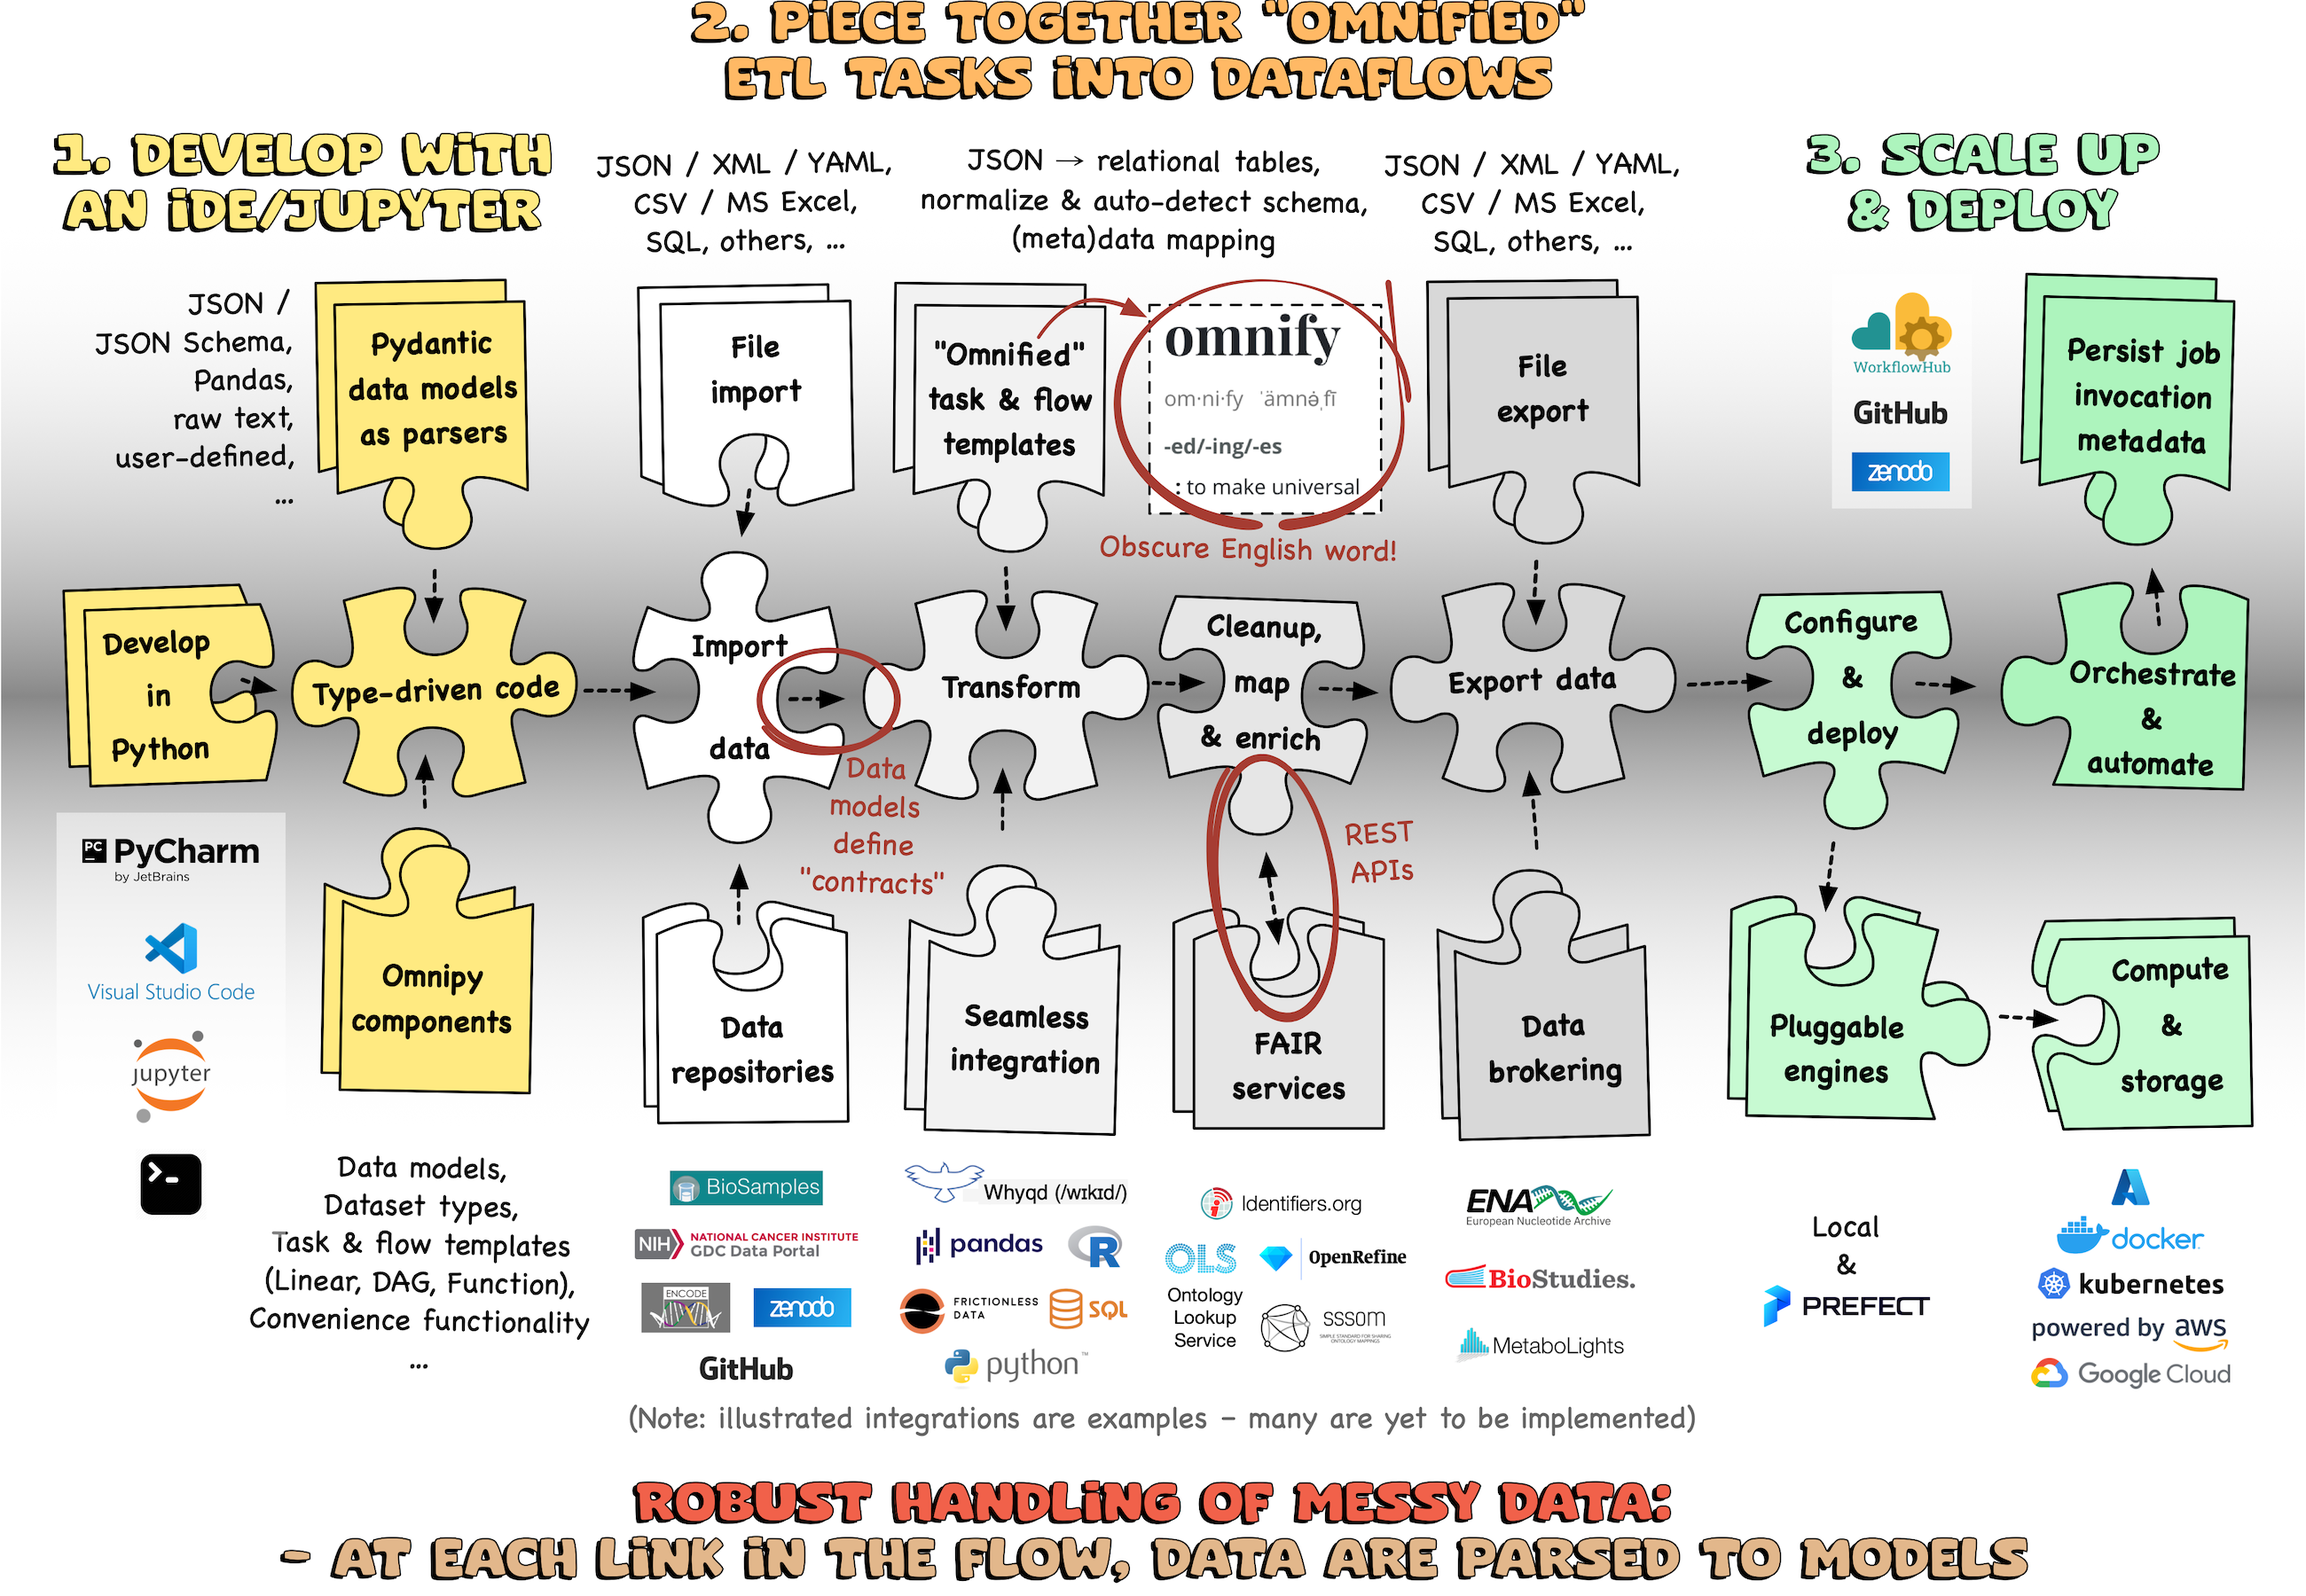
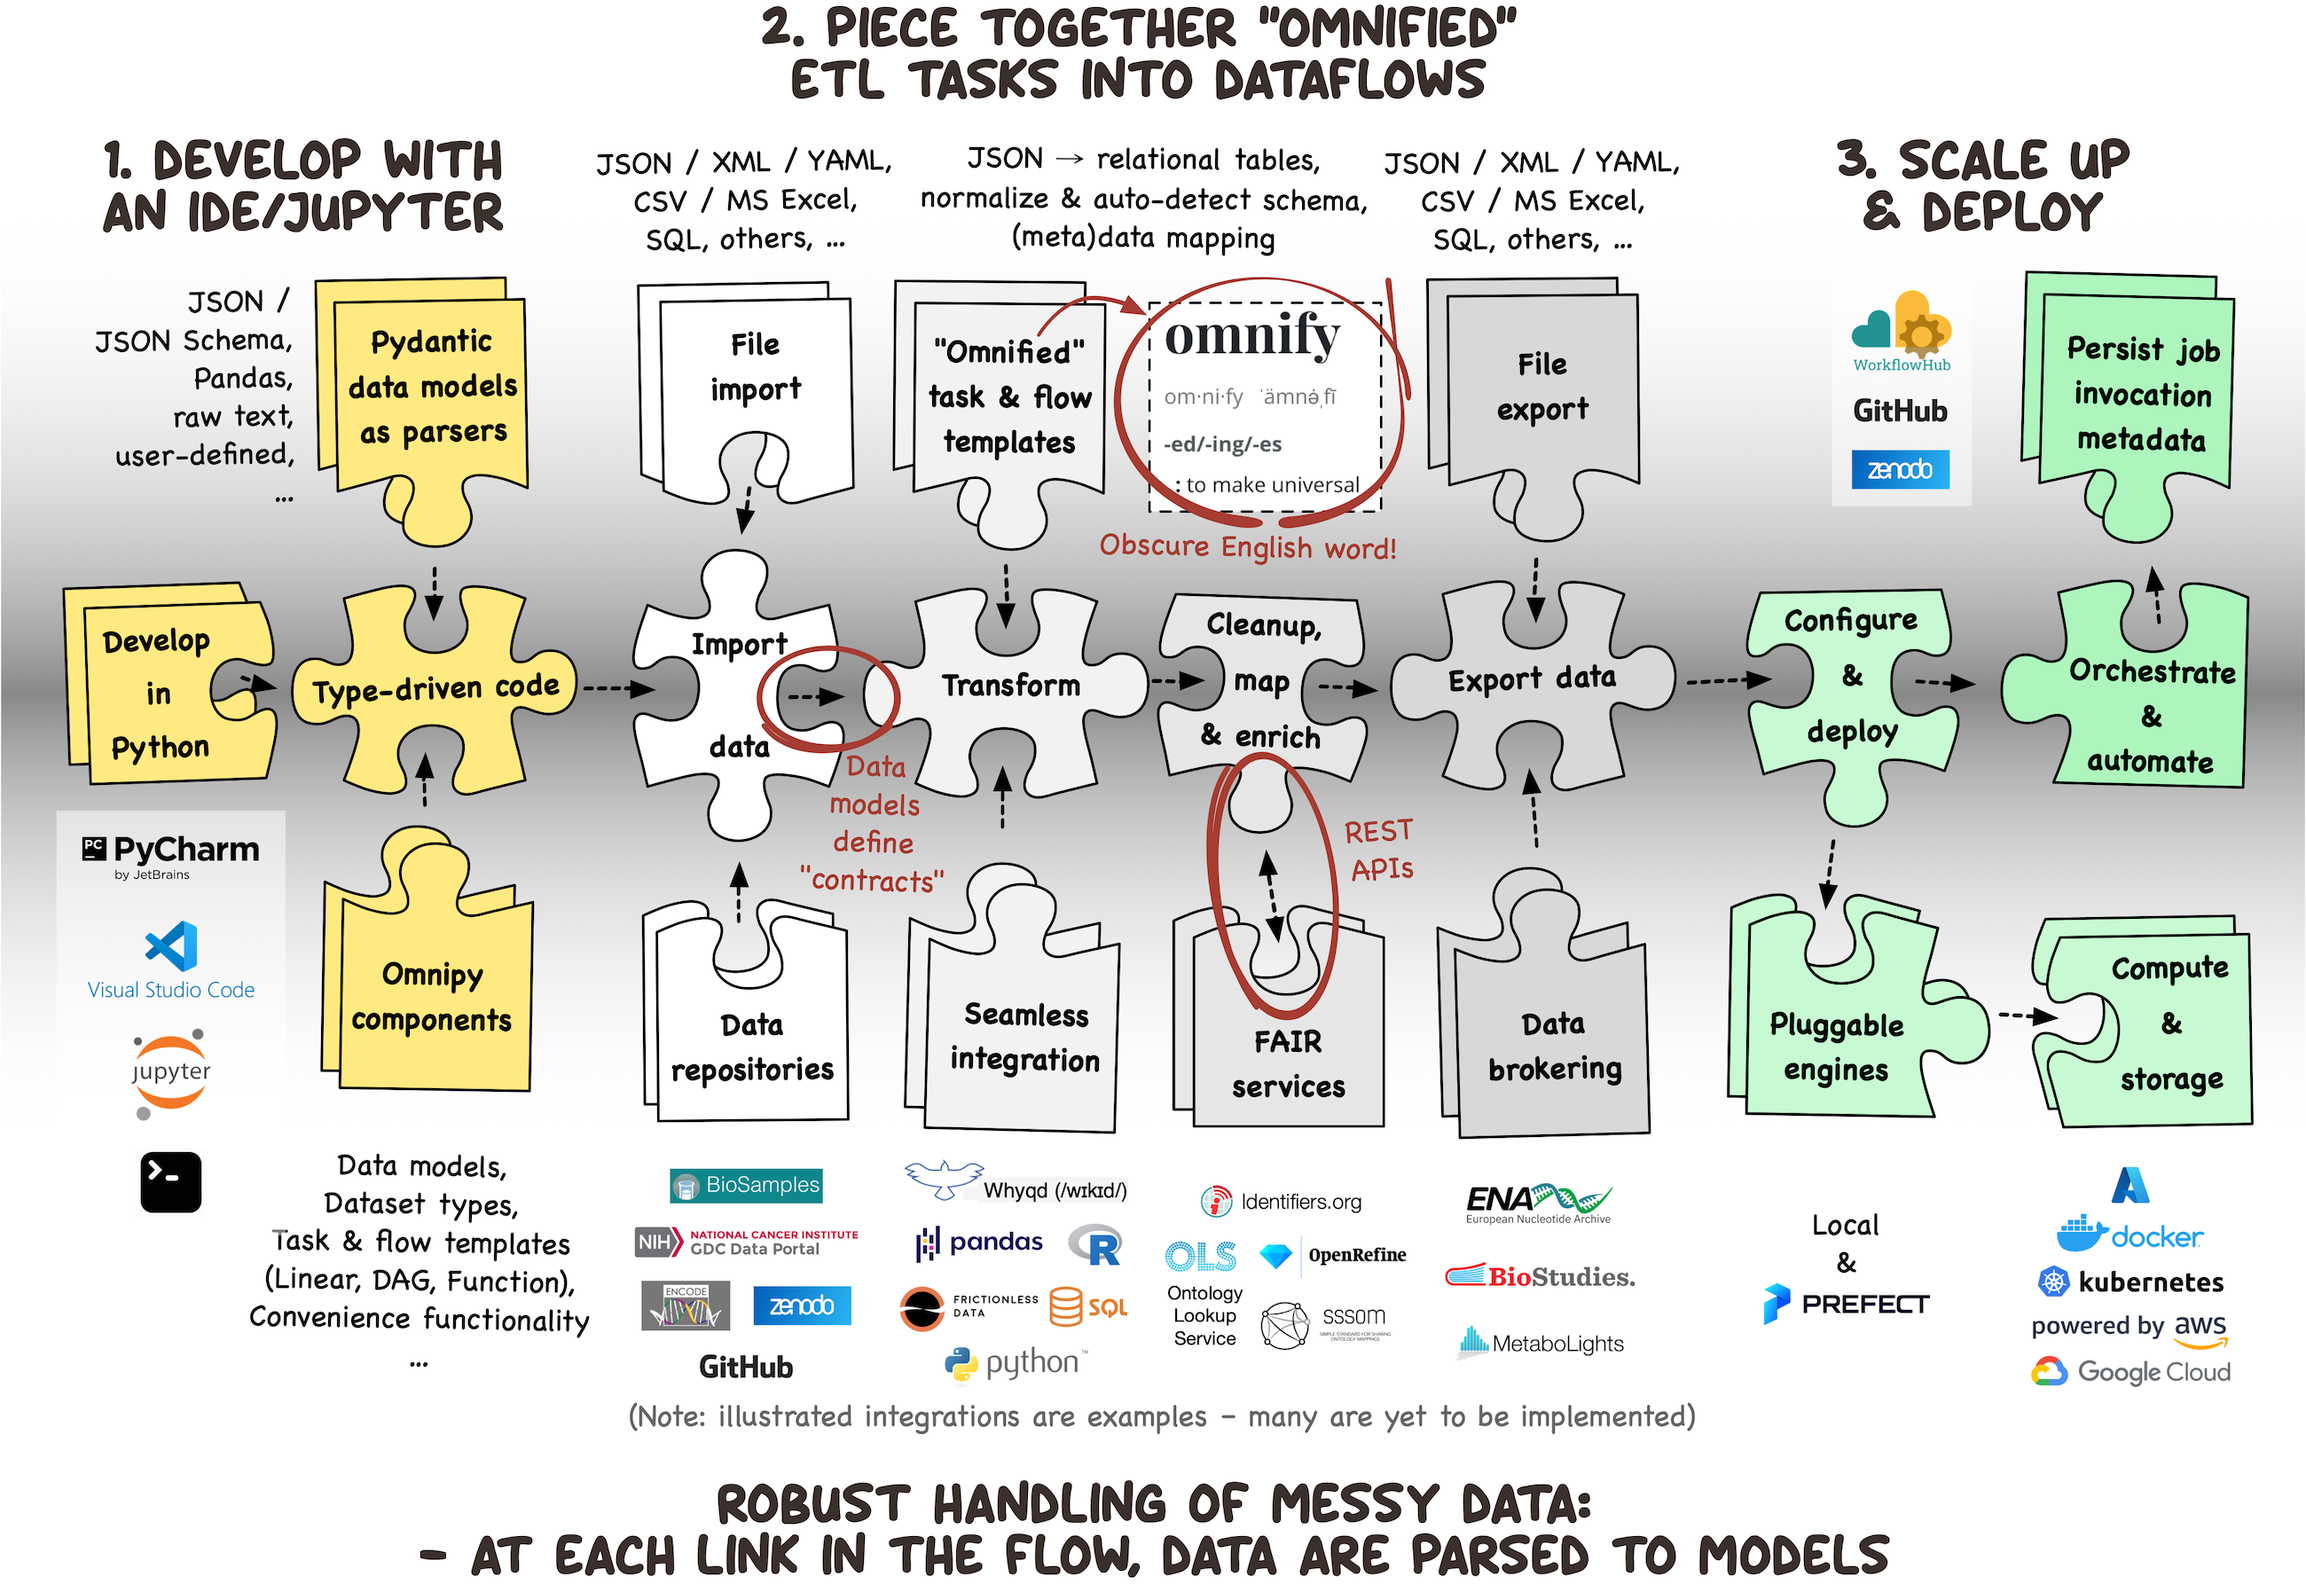
Update illustration and styling

diff --git a/docs/overrides/stylesheets/extra.css b/docs/overrides/stylesheets/extra.css
@@ -80,7 +80,11 @@ code.doc-symbol-module::after {
 .md-typeset h2 {
   background-color: #e3d071;
   padding: 0.2em 0.6em 0.2em 0.6em;
-  margin: 0;
+  margin: 1em 0 0 0;
+}
+
+.md-typeset h1 + h2 {
+  margin: 0.5em 0 0 0;
 }
 
 .md-typeset h2 code {
@@ -133,16 +137,37 @@ a.autorefs-external:hover::after {
   background-color: var(--md-accent-fg-color);
 }
 
-
-
 .center {
   display: flex;
   align-items: center;
-  justify-content: center;
+  flex-direction: column;
+  justify-content: start;
 }
 
-.center p:has(img), .center div {
-  padding: 0.5em 2em 0.5em 2em;
+.center p:has(img) {
+  padding: 0em 0em 0.5em 0em;
+}
+
+.center div {
+  padding: 0.5em 0em 0em 0em;
+}
+
+@media only screen and (min-width: 800px) {
+  .center {
+    display: flex;
+    align-items: center;
+    flex-direction: row;
+    justify-content: center;
+  }
+
+  .left_border {
+    border-left: solid #4C3E39 2px
+  }
+
+
+  .center p:has(img), .center div {
+    padding: 0.5em 2em 0.5em 2em;
+  }
 }
 
 .center p, .center div {
@@ -156,10 +181,6 @@ a.autorefs-external:hover::after {
 p:has(img) {
     line-height: 0;
     margin: 2em 0 2em 0;
-}
-
-.left_border {
-  border-left: solid #4C3E39 2px
 }
 
 .left_column {
@@ -181,7 +202,7 @@ p:has(img) {
 }
 
 .indented_paragraphs p:not(:has(strong)) {
-  padding-left: 3em;
+  padding-left: 2.5em;
   margin-top: 0;
 }
 
